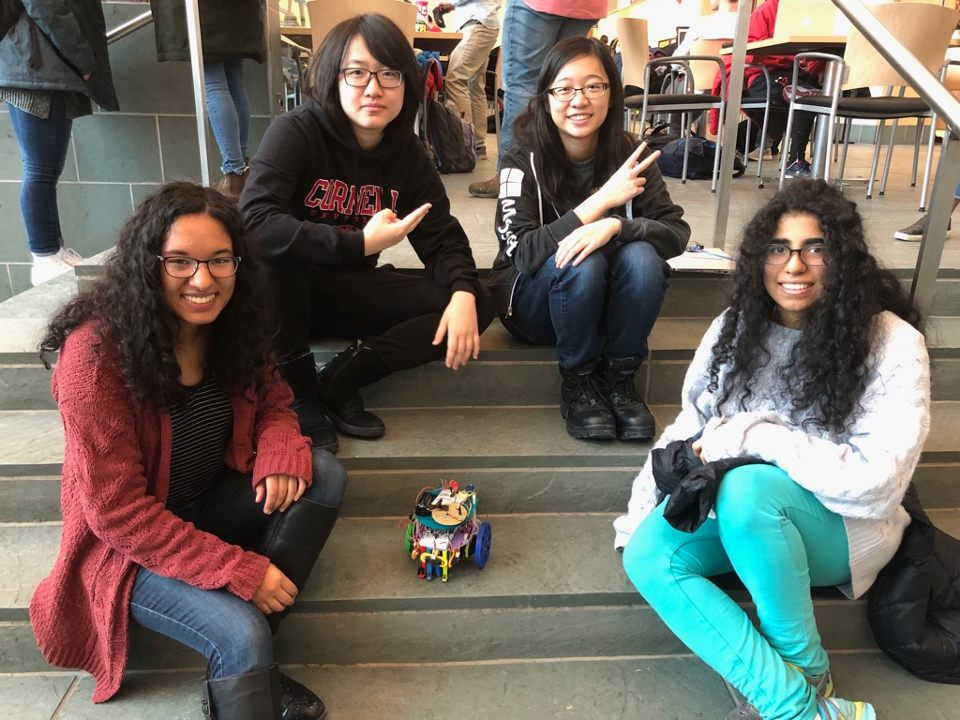
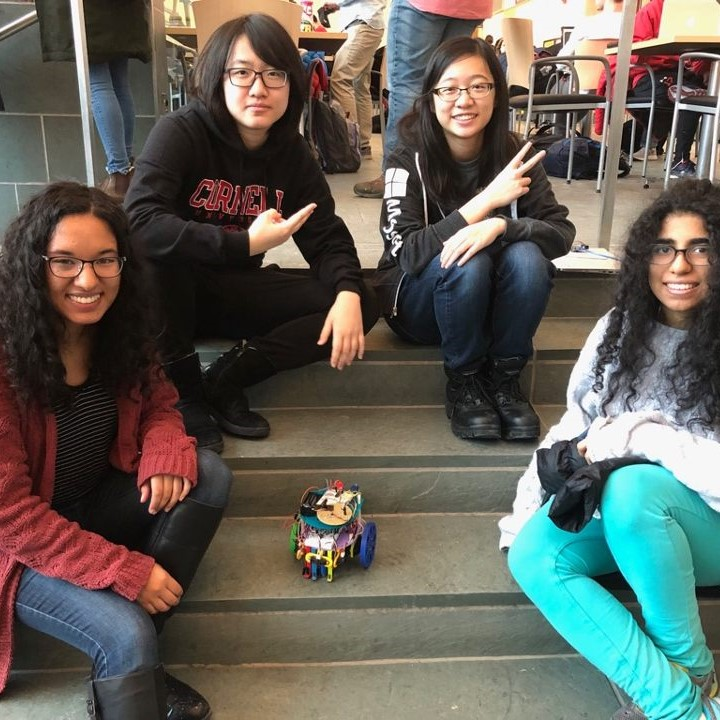
fixing intro

diff --git a/docs/index.html b/docs/index.html
@@ -79,15 +79,15 @@
         </div>
         <div class="row">
           
-          <div class="col-sm-3">
+          <div class="col-sm-12">
             <div class="team-member">
-              <img class="mx-auto rounded-circle" src="img/about/profile avatar.png" alt="">
+              <img class="mx-auto rounded-circle" src="img/about/team photo.jpg" alt="">
               <h4>Team JNPV</h4>
               <p class="text-muted">Joyce Huang, Nathalia Lie, Priya Kattappurath, Vini Tripathii</p>
-              <p> Hello! </p>
+              <p> Hello! This semester, we took a class where students learn to tie the fundamental principles of Electrical and Computer Engineering (ECE) across virtual and physical boundaries to create autonomous robots able to perceive, reason about, and act upon their environment. Specifically, we were able to design and fabricate a robot able to navigate and map out a maze in the shortest possible time.</p>
             </div>
           </div>
-
+          
         </div>
         <div class="row">
           <div class="col-lg-8 mx-auto text-center"
